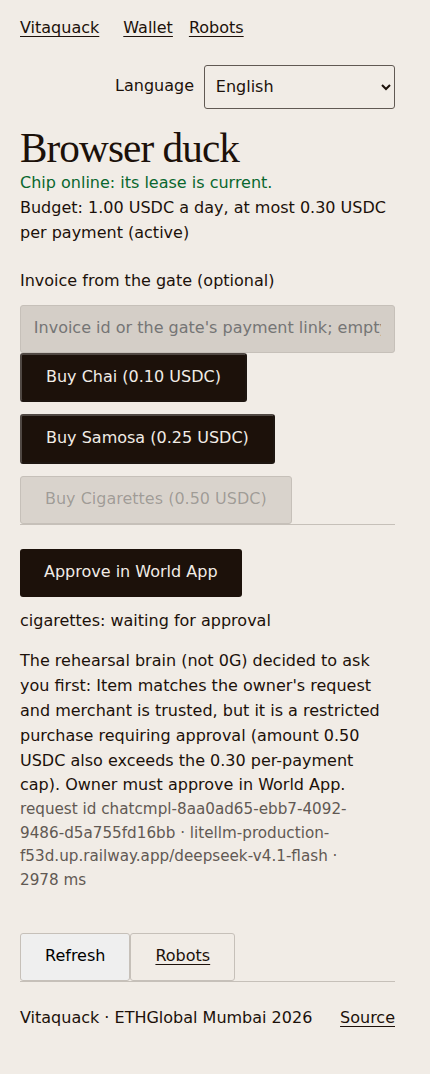
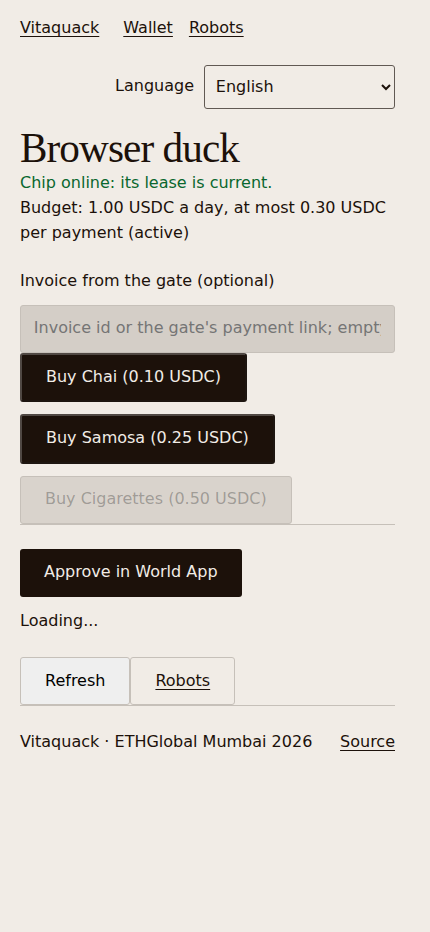
Evidence run 7, the definitive browser journey (0G Compute: router, qwen3-vl-plus; World = stub, rehearsal only): through the deployed pages 0G pay → chai paid (0xa18da6c6…814a) → gate OPEN live → 0G ask_human → approve on the stub page → 0.50 cigarettes paid with the co-signed approval (0xedeaf0e0…

diff --git a/docs/evidence/2026-11-06-deployed-browser.md b/docs/evidence/2026-11-06-deployed-browser.md
@@ -1,4 +1,7 @@
-# Deployed app through the real UI in Chromium — 2026-11-06 ≈ 06:30–06:40 IST
+# Deployed app through the real UI in Chromium — 2026-11-06, runs 1–3 ≈ 06:30–06:40 IST, runs 4–7 ≈ 12:15–12:36 IST
+
+**Definitive run: run 7** (below; release 563edcb, real 0G decisions, World = the stub, rehearsal only); `screens/`
+holds its shots. Runs 1–6 are the way there.
 
 `packages/server/scripts/wallet-browser.ts` (Wallet lane): Playwright Chromium with Chrome's CDP virtual authenticator
 (`WebAuthn.addVirtualAuthenticator`, ctap2, resident key, user verification), clicking the deployed pages only; the mock
@@ -40,16 +43,16 @@ every decision "The rehearsal brain (not 0G) decided …" with its provider; non
 | Add robot → mock chip pairs | chip `0x5cad670504eC53237406b191061c76e221FebBa3` | — |
 | Grant 1.00/day, 0.30/payment, Duck Café, 24 h, signed with the passkey in the browser | `(active)`; the relayer deployed the account | — |
 | **Buy Chai** → rehearsal brain `pay` (request id `chatcmpl-f2778f51-…`, 1407 ms) → chip signs → **paid**; a reload mid-errand restored it from activity and the console polled 3 more times | `chai: paid`, **Payment on Arc** | [0x782f8dfc…8875](https://explorer.arc.io/tx/0x782f8dfc25083a5b9328deb949aa037487eb1d2c688492db7fd4e9225a598875) |
-| Gate (`/gate/duck-cafe`) | had already turned the page by the screenshot: OPEN lasts a few seconds, then it shows a fresh invoice (`08-gate.png`, CLOSED with the next invoice). The script now catches OPEN live (`08-gate-open.png` on the next run) | — |
-| **Buy Cigarettes** (twice) | the rehearsal brain answered `walk_away` ("approvalRequired=true … cannot be paid or approved"), so no approval was asked and nothing was paid (`10-restricted-approve-no-approval.png`). The decide prompt is being changed to answer `ask_human` when the owner asked for the item; the approve/deny via the stub reruns after that | — |
+| Gate (`/gate/duck-cafe`) | had already turned the page by the screenshot: OPEN lasts a few seconds, then it shows a fresh invoice (`rehearsal/08-gate.png`, CLOSED with the next invoice). The script now catches OPEN live (`08-gate-open.png` on the next run) | — |
+| **Buy Cigarettes** (twice) | the rehearsal brain answered `walk_away` ("approvalRequired=true … cannot be paid or approved"), so no approval was asked and nothing was paid (`rehearsal/10-restricted-approve-no-approval.png`). The decide prompt is being changed to answer `ask_human` when the owner asked for the item; the approve/deny via the stub reruns after that | — |
 | **Revoke grant** (passkey) | `(revoked)` + **Revoke transaction** | [0xaaa018d2…27c6](https://explorer.arc.io/tx/0xaaa018d2ee34ccd3647c22cb1ec532dd595f468451839e2b8b9b5696a7fe27c6) |
 | **Buy Chai after the revoke** → brain `pay` → the chip signs → settlement refused by Arc | `chai: failed`, "Reason: CannotUseADisabledDelegation" (`21-after-revoke.png`); nothing moved | — |
 
-Screens from this run: `01-signed-up`, `02-wallet`, `03-pairing-code`, `04-grant-consent` (1.00 / 0.30), `05-grant-active`,
-`06-console-live`, `07-console-ended` (paid, the rehearsal-brain label and provider), `08-gate`,
-`10-restricted-approve-no-approval` / `15-restricted-deny-no-approval` (walked away), `20-revoked`, `21-after-revoke`.
+Screens from this run (since replaced by run 7's, except `rehearsal/`): `01-signed-up`, `02-wallet`, `03-pairing-code`, `04-grant-consent` (1.00 / 0.30), `05-grant-active`,
+`06-console-live`, `07-console-ended` (paid, the rehearsal-brain label and provider), `rehearsal/08-gate`,
+`rehearsal/10-restricted-approve-no-approval` / `rehearsal/15-restricted-deny-no-approval` (walked away), `20-revoked`, `21-after-revoke`.
 
-## Runs 5 and 6 — the restricted item approved and denied through the issuer page, release 0532509 (≈ 13:20–13:26 IST), **rehearsal: brain = LiteLLM → DeepSeek, not 0G; issuer = the World stub, not World**
+## Runs 5 and 6 — the restricted item approved and denied through the issuer page, release 0532509 (≈ 12:22–12:26 IST), **rehearsal: brain = LiteLLM → DeepSeek, not 0G; issuer = the World stub, not World**
 
 `heavy --wait bun --env-file=.env.main.local packages/server/scripts/wallet-browser.ts --only-restricted --fund 0.55`
 against release `0532509f941e7e0fc2e45f98adc1da3ab6c46d7e` (the decide prompt spells out the approval rule). Each run is a
@@ -63,12 +66,12 @@ owner, it buys the cigarettes again, at most three times.
 | Run | Step | Result | Arc |
 | --- | --- | --- | --- |
 | 5 | Owner `0xbdf783Fd3d2a88BCafE46Fba486DE086fB3F2Fc0`, funded 0.55; chip `0x790A31ACa16345F8B13C4bb23C1b60C0093549aE`; grant active | — | [0xa58d6d63…5dec](https://explorer.arc.io/tx/0xa58d6d63633dd24c7a693824ad9171a81dba6ec2d263fac82702d6b1f30a5dec) (fund) |
-| 5 | Buy Cigarettes (approve) | the rehearsal brain answered `walk_away` (`chatcmpl-0985f4b5-…`: "price exceeds policy limit, so it cannot be paid even with approval", which is wrong: the enforcer accepts an over-cap payment with an approval); nothing asked, nothing paid (`10-restricted-approve-no-approval.png`). This run's script did not retry | — |
+| 5 | Buy Cigarettes (approve) | the rehearsal brain answered `walk_away` (`chatcmpl-0985f4b5-…`: "price exceeds policy limit, so it cannot be paid even with approval", which is wrong: the enforcer accepts an over-cap payment with an approval); nothing asked, nothing paid (`rehearsal/10-restricted-approve-no-approval.png`). This run's script did not retry | — |
 | 5 | **Buy Cigarettes (deny)** → brain `ask_human` (`chatcmpl-8aa0ad65-…`, 2978 ms) → **Approve in World App** → approval page → **Approve with World** → stub issuer page → **Deny** | back on the approval page, then the console: **cigarettes: denied**, "Reason: World answered access_denied", no payment link, nothing signed (`15-restricted-deny-asks` … `19-restricted-deny-console`) | — |
 | 5 | Revoke grant | `(revoked)` | [0x100641a0…8a7c](https://explorer.arc.io/tx/0x100641a04be2f96140c37862a9945314a634ba2137ca43864090dc74745f8a7c) |
 | 6 | Owner `0xF4815A01e15FeC530E2224CB255e735472ba58C0`, funded 0.55; chip `0x709C9463Ea1B132C558f5E8Cca22A6EFDd783016`; grant active | — | [0xb827c1f8…b919](https://explorer.arc.io/tx/0xb827c1f852bd2124ca95832a32daba9c8101b6a26e824a585c372c830547b919) (fund) |
-| 6 | **Buy Cigarettes (approve)**: attempt 1 `walk_away` (`10-restricted-approve-no-approval-1.png`); attempt 2 → brain `ask_human` (`chatcmpl-dcc1fb3b-…`, 2391 ms: "restricted with approvalRequired=true (and 500000 exceeds the 300000 per-payment cap), so owner must approve in World App") → **Approve in World App** → approval page → **Approve with World** → stub issuer page → **Approve** | **Approved**, the chip signs, console **cigarettes: paid** + **Payment on Arc**: 0.50 USDC from the owner to the Duck Café payee `0x0166cd2a4e81f381ca005a791e151ee7d3f88f52` (receipt status 1; `10-restricted-approve-asks` … `14-restricted-approve-console`) | [0xc0e507b6…5fa7](https://explorer.arc.io/tx/0xc0e507b6a5b9da03061f98afe4f64a9aeb6879e6d8927cfd43be1504937f5fa7) |
-| 6 | Buy Cigarettes (deny), three attempts | each ended **safe stop**, "decide arguments are not {action, reason}" (`chatcmpl-ebb5c79a-…` 7563 ms, `chatcmpl-8083da4d-…` 3617 ms, `chatcmpl-f3c5f700-…` 2264 ms): the brain's `decide` arguments did not decode as `{action, reason ≤ 200 characters}`, so the errand stopped and no decision was made up for it (`15-restricted-deny-no-approval-{1,2,3}.png`). The deny path is run 5's | — |
+| 6 | **Buy Cigarettes (approve)**: attempt 1 `walk_away` (`rehearsal/10-restricted-approve-no-approval-1.png`); attempt 2 → brain `ask_human` (`chatcmpl-dcc1fb3b-…`, 2391 ms: "restricted with approvalRequired=true (and 500000 exceeds the 300000 per-payment cap), so owner must approve in World App") → **Approve in World App** → approval page → **Approve with World** → stub issuer page → **Approve** | **Approved**, the chip signs, console **cigarettes: paid** + **Payment on Arc**: 0.50 USDC from the owner to the Duck Café payee `0x0166cd2a4e81f381ca005a791e151ee7d3f88f52` (receipt status 1; `10-restricted-approve-asks` … `14-restricted-approve-console`) | [0xc0e507b6…5fa7](https://explorer.arc.io/tx/0xc0e507b6a5b9da03061f98afe4f64a9aeb6879e6d8927cfd43be1504937f5fa7) |
+| 6 | Buy Cigarettes (deny), three attempts | each ended **safe stop**, "decide arguments are not {action, reason}" (`chatcmpl-ebb5c79a-…` 7563 ms, `chatcmpl-8083da4d-…` 3617 ms, `chatcmpl-f3c5f700-…` 2264 ms): the brain's `decide` arguments did not decode as `{action, reason ≤ 200 characters}`, so the errand stopped and no decision was made up for it (`rehearsal/15-restricted-deny-no-approval-{1,2,3}.png`). The deny path is run 5's | — |
 | 6 | Revoke grant | `(revoked)` (`20-revoked.png`) | [0x442c0b7b…54f8](https://explorer.arc.io/tx/0x442c0b7b3f87a0dd1512c2ec93fc1c48ef0f66f2bb24b5b8a8cd6eaec52254f8) |
 
 Receipts read back from the Arc RPC: the approve payment, run 6's fund and run 6's revoke all have status 1; the payment
@@ -78,12 +81,44 @@ carries the 0.50 USDC transfer to the payee.
 2 × `walk_away`, 3 × a tool call that does not decode (safe stop). The app handled each one
 as the spec says (approval page, nothing paid, safe stop), but the rehearsal brain is not a reliable stage brain for
 the cigarettes beat. **Stranded:** run 5's owner keeps 0.55 USDC and run 6's 0.05 USDC (counterfactual accounts whose
-virtual passkeys ended with the browser). `01`–`05` and `20-revoked` in `screens/` are now run 6's (run 4's showed the
-same pages for its own owner).
+virtual passkeys ended with the browser). `screens/` now holds run 7's shots; the misses above are under `screens/rehearsal/`
+(Git history keeps every earlier shot).
+
+## Run 7 — the whole journey on release 563edcb (≈ 12:36 IST), **0G Compute (router, qwen3-vl-plus); World = stub, rehearsal only**
+
+`heavy --wait bun --env-file=.env.main.local packages/server/scripts/wallet-browser.ts --fund 0.65` against release
+`563edcb7998153a91ed848c7b2357d6bd9fbfa21` (`/api/health` features all true). Every decision in this run came from **0G
+Compute** through the router: the console reads "0G decided …" and names the brain
+`router-api.0g.ai/qwen3-vl-plus@0x000000003f486c7198d6203568a98d02b91f8044` (the router's 0G provider) with the router's
+request id. The issuer behind **Approve with World** is the in-Worker **stub** ("STUB IdP — not World — rehearsal
+only"), so the approval and the denial below are rehearsals of the World step, not World approvals. One run, no retries
+needed: every restricted call asked the owner.
+
+| Step | Result | Arc |
+| --- | --- | --- |
+| Signup (virtual passkey) | owner `0x15Fe8671c549619a6743DB125eC57DDE8b1e581c` (`01-signed-up`) | — |
+| Fund 0.65 USDC from the relayer | balance on `/wallet` (`02-wallet`) | [0xb6b3edf4…d1cb](https://explorer.arc.io/tx/0xb6b3edf42b4ba55e398c16db91f117d5f8afc0edf06a6a25cd649ce46b66d1cb) |
+| Add robot → the mock chip pairs | chip `0xD81F4e378435Cf5af45A8c7BF1f83871082dC3e6` (`03-pairing-code`) | — |
+| Grant 1.00/day, 0.30/payment, Duck Café, 24 h, signed with the passkey | consent sentence, then `(active)`; the relayer deployed the account (`04-grant-consent`, `05-grant-active`) | — |
+| Gate tab before the errand | **CLOSED** with the open chai invoice `7asbeh44b7gpqnsblmz4ysnetq` (`08-gate-closed`) | — |
+| **Buy Chai** → **0G `pay`** "Chai as asked, within budget." (request id `5ca4a212-1beb-4243-adc7-158156e7c9f4`, 2647 ms) → the chip signs → **paid**; a reload mid-errand restored it and the console polled twice more | `chai: paid`, **Payment on Arc**: 0.10 USDC to the counter `0x2845d56f584c5f38d1f0f4b3c1a0a28cf55397f5` (`06-console-live`, `07-console-ended`) | [0xa18da6c6…814a](https://explorer.arc.io/tx/0xa18da6c6aa0b5963839d53133c72dc0e75616450779e534efedc6d687090814a) |
+| The gate, live in its own tab | **OPEN**: "Paid: the merchant's signed status verified (Ed25519)" for invoice `7asbeh44…` (`08-gate-open`) | — |
+| **Buy Cigarettes** (0.50, restricted, over the 0.30 cap) → **0G `ask_human`** "Restricted item the owner asked for; the owner approves it in World App." (`d230ef16-35ed-4e03-96cf-4ac173b9d21d`, 1974 ms) → **Approve in World App** → approval page → **Approve with World** → stub page → **Approve** | "Approved: the chip signs the payment now"; console **cigarettes: paid**: 0.50 USDC to the Duck Café payee `0x0166cd2a4e81f381ca005a791e151ee7d3f88f52`, accepted by the enforcer with the co-signed approval (`10-restricted-approve-asks`, `12-restricted-approve-issuer`, `13-restricted-approve-answered`, `14-restricted-approve-console`) | [0xedeaf0e0…0548](https://explorer.arc.io/tx/0xedeaf0e06604c93a226f731a7499a9be7096813f209d6bac9ff96a8cb0790548) |
+| **Buy Cigarettes** again → **0G `ask_human`** (`7dcb97bb-f577-433f-a7b6-60e5aa8cdd64`, 2419 ms) → approval page → **Approve with World** → stub page → **Deny** | "Denied: nothing is paid", "World answered access_denied"; console **cigarettes: denied**, no payment link, nothing signed (`15-restricted-deny-asks`, `17-restricted-deny-issuer`, `18-restricted-deny-answered`, `19-restricted-deny-console`) | — |
+| **Revoke grant** (passkey) | `(revoked)` + **Revoke transaction** (`20-revoked`) | [0x4f1ba8e1…8e02](https://explorer.arc.io/tx/0x4f1ba8e1625008ec90242657948a8291c495f86aa12011e7a2c7b4bc4afc8e02) |
+| **Buy Chai after the revoke** → **0G `pay`** (`1b6b2840-b760-4421-9d1e-163e58160f37`, 2038 ms) → the chip signs → settlement refused by Arc | `chai: failed`, "Reason: CannotUseADisabledDelegation" (`21-after-revoke`); nothing moved | — |
+
+Receipts read back from the Arc RPC: fund, chai, cigarettes and revoke all have status 1; the chai and cigarettes
+receipts carry 0.10 and 0.50 USDC transfers from the owner to the payees above. Two shots came too early and were dropped or
+are thin: the approval page's own shots (`11-…`, `16-…`, removed) caught it still loading, so `13-…` and `18-…` are the
+ones with the item, amount, payee and invoice (answered); `15-restricted-deny-asks` shows the approval link with the
+console still loading, so `19-restricted-deny-console` carries that `ask_human` line. The script now waits for both
+(29a46a0, 1b6bffc). Each console line shows "Episode log: pending" at screenshot time (the 0G Storage
+upload runs afterwards). **Left in the owner:** 0.05 USDC (0.65 − 0.10 − 0.50), stranded with the virtual passkey.
 
 ## Not yet proven on the deployed app
 
-- A **0G** decision (every decision in runs 4–6 came from the rehearsal brain).
-- A live **World** approval and denial: runs 5–6 went through the stub issuer, a rehearsal; the submission uses
+- A live **World** approval and denial: runs 5–7 went through the stub issuer, a rehearsal; the submission uses
   auth.world.org once the World client exists.
-- The gate's OPEN state in a screenshot (`--only-restricted` skips the chai and the gate).
+- Run 7's episodes (0G decisions) on 0G Storage and `EpisodeLog` (the first upload, `2026-11-06-evidence-upload.md`,
+  carries a rehearsal-brain decision).

diff --git a/docs/submission.md b/docs/submission.md
@@ -83,7 +83,7 @@ revoke [0x04f6994c…fb87](https://explorer.arc.io/tx/0x04f6994cf6c2bb7b46650d38
 whose account deploy and ERC-1271 check ran on Arc
 [0xddd15708…4a0b](https://explorer.arc.io/tx/0xddd15708400a776ba01c383aede146e83d737c6e6bf815269d3e77e59cbf4a0b)
 (`docs/evidence/2026-11-06-deployed-e2e.md`, `docs/evidence/2026-11-06-deployed-browser.md`). Arc Studio project:
-https://studio.arc.io/app/63241623-a488-4452-ae23-ab151e4f2d75 (both contracts, 42 Foundry tests, Arc testnet deployments `0xf334…d711` / `0xe701…3579`, a page reading the live enforcer). A robot errand paid through the deployed pages, its decision from the rehearsal brain (not 0G): [0x782f8dfc…8875](https://explorer.arc.io/tx/0x782f8dfc25083a5b9328deb949aa037487eb1d2c688492db7fd4e9225a598875); the grant then revoked with the passkey ([0xaaa018d2…27c6](https://explorer.arc.io/tx/0xaaa018d2ee34ccd3647c22cb1ec532dd595f468451839e2b8b9b5696a7fe27c6)) and the next errand refused by Arc (`CannotUseADisabledDelegation`) (`docs/evidence/2026-11-06-deployed-browser.md`, run 4).
+https://studio.arc.io/app/63241623-a488-4452-ae23-ab151e4f2d75 (both contracts, 42 Foundry tests, Arc testnet deployments `0xf334…d711` / `0xe701…3579`, a page reading the live enforcer). The whole journey through the deployed pages, with every decision from 0G Compute (`docs/evidence/2026-11-06-deployed-browser.md`, run 7): a passkey-granted robot paid a chai ([0xa18da6c6…814a](https://explorer.arc.io/tx/0xa18da6c6aa0b5963839d53133c72dc0e75616450779e534efedc6d687090814a)), the gate opened on the merchant's signed status, a restricted, over-cap 0.50 USDC payment went through with a co-signed approval (World stub, rehearsal) ([0xedeaf0e0…0548](https://explorer.arc.io/tx/0xedeaf0e06604c93a226f731a7499a9be7096813f209d6bac9ff96a8cb0790548)), a second one was denied with nothing signed, the grant was revoked with the passkey ([0x4f1ba8e1…8e02](https://explorer.arc.io/tx/0x4f1ba8e1625008ec90242657948a8291c495f86aa12011e7a2c7b4bc4afc8e02)) and the next chai was refused by Arc (`CannotUseADisabledDelegation`).
 
 ### 0G — Physical AI (Agents with a Body)
 
@@ -92,7 +92,14 @@ the invoice, the budget, the policy flags), each decision stored with its 0G req
 any 0G failure (never a faked decision), and every episode uploaded to 0G Storage and anchored in `EpisodeLog` on 0G
 Chain (Galileo). Proven: the decision loop, the safe stop and the evidence queue against a stub 0G on the native Worker
 (`packages/server/test/RobotAcceptance.ts`). `EpisodeLog` is deployed on 0G Galileo (16602) at `0x4C947E6D794C78d0F684e46EFC97f712E51a206A` (deploy tx
-[0xe4eb07f3…bf69](https://chainscan-galileo.0g.ai/tx/0xe4eb07f387cc5a767c019f150cc7abca7424fa68ae092ab50fe1bc49b2bebf69), code = build). _Fill in: a real 0G decision on the deployed app (request id) and the first uploaded episode (root hash, record tx)._
+[0xe4eb07f3…bf69](https://chainscan-galileo.0g.ai/tx/0xe4eb07f387cc5a767c019f150cc7abca7424fa68ae092ab50fe1bc49b2bebf69), code = build). On the deployed app the decisions come from **0G Compute** through the router
+(`router-api.0g.ai`, `qwen3-vl-plus`, 0G provider `0x000000003f486c7198d6203568a98d02b91f8044`), each logged with the
+router's request id: in the browser journey (run 7) chai `pay` `5ca4a212-1beb-4243-adc7-158156e7c9f4`, cigarettes
+`ask_human` `d230ef16-35ed-4e03-96cf-4ac173b9d21d` (approved, paid) and `7dcb97bb-f577-433f-a7b6-60e5aa8cdd64` (denied),
+chai after the revoke `pay` `1b6b2840-b760-4421-9d1e-163e58160f37` (refused by Arc); the same in the API driver's runs
+9–10 (`docs/evidence/2026-11-06-deployed-e2e.md`). The first uploaded episode (`hg2ouddwe2h5j6ekbrsn7grfja`, root
+`0x8db4ffc1…d5dd`, `EpisodeLog.record` `0xd2fe9e75…aa21`, `docs/evidence/2026-11-06-evidence-upload.md`) carries a
+rehearsal-brain decision. _Fill in: an episode with a 0G decision on 0G Storage + `EpisodeLog` (root hash, record tx)._
 
 ### World — Agent Pass
 
@@ -101,10 +108,10 @@ bound to the exact payment by using the EIP-712 digest of {invoice, payee, amoun
 backend verifies the token (Orb `acr`, `amr` contains `pop` and not `mfa`, `jti` once, `sub` bound to the wallet) and
 co-signs that single payment, which our Arc enforcer requires. Denial or a 300 s timeout means nothing is ever signed.
 Proven: the verifier and the approval flow in tests (`packages/server/test/World.test.ts`, scene tests). Rehearsed on
-the deployed app through the real pages with the in-Worker **stub issuer** (rehearsal only, not World): a 0.50 USDC
-restricted, over-cap payment approved, co-signed and paid on Arc ([0xc0e507b6…5fa7](https://explorer.arc.io/tx/0xc0e507b6a5b9da03061f98afe4f64a9aeb6879e6d8927cfd43be1504937f5fa7)), and a second one denied with
-nothing signed (`docs/evidence/2026-11-06-deployed-browser.md`, runs 5–6; the decisions came from the rehearsal brain,
-not 0G). _Fill in: the live approve and deny with an Orb ID on the deployed app._ Debrief: `docs/world-debrief.md`.
+the deployed app through the real pages with the in-Worker **stub issuer** (rehearsal only, not World): 0G asked the
+owner, a 0.50 USDC restricted, over-cap payment was approved, co-signed and paid on Arc ([0xedeaf0e0…0548](https://explorer.arc.io/tx/0xedeaf0e06604c93a226f731a7499a9be7096813f209d6bac9ff96a8cb0790548)), and a second one
+was denied with nothing signed (`docs/evidence/2026-11-06-deployed-browser.md`, run 7; runs 5–6 with the rehearsal
+brain). _Fill in: the live approve and deny with an Orb ID on the deployed app._ Debrief: `docs/world-debrief.md`.
 
 ## Links
 
@@ -126,9 +133,9 @@ during the event too.
 
 ## What is not finished (keep honest at submission time)
 
-- A real 0G decision on the deployed app: _pending a 0G key in `APP_ZG_*`_ (a robot errand paid on the deployed app is proven with the LiteLLM rehearsal brain, labelled as such).
+- A real 0G decision on the deployed app: done 6 Nov ≈ 12:36 IST (router `qwen3-vl-plus`, request ids in the 0G section; browser evidence run 7, e2e runs 9–10). An episode with a 0G decision on 0G Storage is _still to record_.
 - The evidence uploader against 0G Storage and `EpisodeLog` on Galileo: done 6 Nov 12:06 IST for the first paid episode `hg2ouddwe2h5j6ekbrsn7grfja` (root `0x8db4ffc1…d5dd`, storage tx `0x87d1be1f…12dc`, `EpisodeLog.record` tx `0xd2fe9e75…aa21`; `docs/evidence/2026-11-06-evidence-upload.md`). The decision in that episode came from the rehearsal brain, not 0G.
-- A live World approve and deny: _pending the World IdP client_ (rehearsed on the deployed app with the stub issuer, not World: runs 5–6).
+- A live World approve and deny: _pending the World IdP client_ (rehearsed on the deployed app with the stub issuer, not World: browser runs 5–7, e2e runs 9–10).
 - On-chain verification of the World token (the S5b prototype) is a stretch; the backend co-signer is what runs.
 - The physical duck walking to the till; the virtual loop (mock chip + web gate) is the demo.
 
@@ -141,5 +148,5 @@ during the event too.
 | Demo video 2–4 min, ≥ 720p, real narration, ≤ 4 bullets per slide | _record from `docs/video-script.md`_ |
 | Up to 3 partner prizes with integration + feedback | Arc, 0G, World above; World debrief in `docs/world-debrief.md` |
 | Arc: shareable Studio URL, Studio in the demo, working frontend + backend, architecture diagram, Arc/Circle tools named | Studio URL https://studio.arc.io/app/63241623-a488-4452-ae23-ab151e4f2d75; the rest above |
-| 0G: 0G call in the loop, Storage episode log with request ids, safe stop, contract addresses, README setup, video < 3 min | `EpisodeLog` `0x4C947E6D794C78d0F684e46EFC97f712E51a206A` (Galileo); live ids _fill in_ |
-| World: official Agent Pass, full journey incl. deny/expired, backend validation, debrief | stub rehearsal on the deployed app (approve → paid, deny → denied; browser evidence runs 5–6); live run _fill in_ |
+| 0G: 0G call in the loop, Storage episode log with request ids, safe stop, contract addresses, README setup, video < 3 min | `EpisodeLog` `0x4C947E6D794C78d0F684e46EFC97f712E51a206A` (Galileo); router request ids `5ca4a212…`, `d230ef16…`, `7dcb97bb…`, `1b6b2840…` (browser evidence run 7); a 0G-decided episode on Storage _fill in_ |
+| World: official Agent Pass, full journey incl. deny/expired, backend validation, debrief | stub rehearsal on the deployed app (approve → paid, deny → denied; browser evidence run 7); live run _fill in_ |

diff --git a/docs/demo.md b/docs/demo.md
@@ -15,6 +15,7 @@ the final run: replace them with the recorded ones in `docs/evidence/demo-run.md
 | A passkey-signed grant on the deployed app: the Worker's relayer deployed the Hybrid account and Arc's ERC-1271 check accepted the passkey signature | [0xddd15708…4a0b](https://explorer.arc.io/tx/0xddd15708400a776ba01c383aede146e83d737c6e6bf815269d3e77e59cbf4a0b) (`docs/evidence/2026-11-06-deployed-e2e.md`) |
 | Through the deployed pages (rehearsal brain = LiteLLM, not 0G): Buy Chai paid, a reload mid-errand restored, revoke, the next chai refused by Arc (`CannotUseADisabledDelegation`) | [0x782f8dfc…8875](https://explorer.arc.io/tx/0x782f8dfc25083a5b9328deb949aa037487eb1d2c688492db7fd4e9225a598875) paid, [0xaaa018d2…27c6](https://explorer.arc.io/tx/0xaaa018d2ee34ccd3647c22cb1ec532dd595f468451839e2b8b9b5696a7fe27c6) revoke (`docs/evidence/2026-11-06-deployed-browser.md`, run 4) |
 | Through the deployed pages with the **stub issuer** (rehearsal, not World; rehearsal brain, not 0G): Buy Cigarettes (0.50, restricted and over the 0.30 cap) → **Approve with World** → the stub page → Approve → **cigarettes: paid**; a second one → Deny → **cigarettes: denied**, nothing signed | [0xc0e507b6…5fa7](https://explorer.arc.io/tx/0xc0e507b6a5b9da03061f98afe4f64a9aeb6879e6d8927cfd43be1504937f5fa7) paid with the co-signed approval (`docs/evidence/2026-11-06-deployed-browser.md`, runs 5–6) |
+| **The whole stage journey through the deployed pages, decisions from 0G Compute** (router, `qwen3-vl-plus`; World = stub, rehearsal only): grant → 0G `pay` → chai paid → gate OPEN → cigarettes → 0G `ask_human` → approve (stub) → paid 0.50 → cigarettes → deny (stub) → denied → revoke → the next chai refused by Arc | [0xa18da6c6…814a](https://explorer.arc.io/tx/0xa18da6c6aa0b5963839d53133c72dc0e75616450779e534efedc6d687090814a) chai, [0xedeaf0e0…0548](https://explorer.arc.io/tx/0xedeaf0e06604c93a226f731a7499a9be7096813f209d6bac9ff96a8cb0790548) cigarettes, [0x4f1ba8e1…8e02](https://explorer.arc.io/tx/0x4f1ba8e1625008ec90242657948a8291c495f86aa12011e7a2c7b4bc4afc8e02) revoke (`docs/evidence/2026-11-06-deployed-browser.md`, run 7; screenshots in `docs/evidence/screens/`) |
 
 ## Before the slot (10 minutes)
 
@@ -38,9 +39,9 @@ the final run: replace them with the recorded ones in `docs/evidence/demo-run.md
 | 3 | **Robots** → **Robot name** "Duck" → **Add robot** | "Pair Duck with this code:" and an 8-character code, "Start the chip with --pair CODE within 10 minutes. The code works once." | Code expired: add the robot again |
 | 4 | Laptop: `bun apps/chip/src/main.ts --server $APP --pair CODE` → back in the browser **Refresh** | chip log `paired`, `lease ok`; the card says **paired · online** and shows the chip address | `offline`: the chip is not polling (network); the console says "Chip offline: motors stay stopped until it polls again." |
 | 5 | **Grant a budget** → keep 1.00 / 0.30 / the Duck Café address / 24 → read the sentence aloud → **Sign grant with passkey** → passkey prompt | the sentence "Vitaquack may spend up to 1.00 USDC a day, at most 0.30 USDC per payment, only at Duck Café, for the next 24 hours. You sign this with your passkey; Arc enforces it."; then "Signing and activating on Arc..." (the first grant also deploys the account), then **Budget: 1.00 USDC a day, at most 0.30 USDC per payment (active)** | "Something went wrong: arc refused…" → the reason is Arc's; retry once. `not configured: …` → a binding is missing on the deploy |
-| 6 | **Open console** (`/robot/:id`) → leave **Invoice from the gate (optional)** empty → **Buy Chai (0.10 USDC)** | "Asking 0G about chai...", then **0G decided to pay: …** with **request id … · brain · N ms** (until the 0G key is live the line reads **The rehearsal brain (not 0G) decided to pay: …**, and the brain names its host/model), the chip line ("The chip is checking the invoice and signing" → "The chip signed the payment"), then **chai: paid** and **Payment on Arc** (explorer link). With the field empty the errand pays the counter's open chai invoice, which is the one the gate is showing | 0G slow/down: the errand ends **safe stop** with "Reason: …": that *is* the safe-stop beat, never fake it. Chip silent 60 s: **expired**. To pay one exact invoice, paste the gate's payment link (or its 26-character id) into the field first |
+| 6 | **Open console** (`/robot/:id`) → leave **Invoice from the gate (optional)** empty → **Buy Chai (0.10 USDC)** | "Asking 0G about chai...", then **0G decided to pay: …** with **request id … · brain · N ms** (brain `router-api.0g.ai/qwen3-vl-plus@0x…8044`, request ids like `5ca4a212-…`; a line reading **The rehearsal brain (not 0G) decided …** means the deploy is on the rehearsal brain: never present that as 0G), the chip line ("The chip is checking the invoice and signing" → "The chip signed the payment"), then **chai: paid** and **Payment on Arc** (explorer link). With the field empty the errand pays the counter's open chai invoice, which is the one the gate is showing | 0G slow/down: the errand ends **safe stop** with "Reason: …": that *is* the safe-stop beat, never fake it. Chip silent 60 s: **expired**. To pay one exact invoice, paste the gate's payment link (or its 26-character id) into the field first |
 | 7 | Second screen, the gate | **OPEN** (the merchant's Ed25519-signed status verified), then it asks for a fresh invoice | Still CLOSED: the errand paid a different invoice; paste the gate's link into the console field and buy again |
-| 8 | Console → **Buy Cigarettes (0.50 USDC)** | **0G decided to ask you first** (or "The rehearsal brain (not 0G) decided to ask you first"), state **waiting for approval**, **Approve in World App** | No approval link: World or the approver is not configured (the errand expires after 300 s). On the rehearsal brain the answer may instead be **walked away** or **safe stop** (runs 5–6: 2 of 7 calls asked): press **Buy Cigarettes** again |
+| 8 | Console → **Buy Cigarettes (0.50 USDC)** | **0G decided to ask you first**, state **waiting for approval**, **Approve in World App** | No approval link: World or the approver is not configured (the errand expires after 300 s). 0G asked the owner in every restricted call so far (run 7: 2 of 2; the probe: 5 of 5); a **walked away** or **safe stop** stays on screen as it is (never faked): press **Buy Cigarettes** again |
 | 9 | **Approve in World App** → the approval page (`/wallet/approvals/:id`) | **Approval for a restricted item**, item, amount 0.50 USDC, payee, invoice, "Waiting for your answer", **Approve with World**, **Deny** | — |
 | 10 | **Approve with World** → World sign-in (scan with World App) → **deny** in World App | back on the page: **Denied: nothing is paid** and the reason; console: **cigarettes: denied**, no payment link | The owner's own **Deny** button gives the same result without World |
 | 11 | Buy Cigarettes again → **Approve with World** → **approve** in World App | **Approved: the chip signs the payment now**; console: the chip signs, **cigarettes: paid**, **Payment on Arc** | "World token rejected: mfa" = the World sign-in was a passkey, not a fresh Orb proof: sign in with the Orb face check. "a different World account than the one bound to this wallet": the first approval binds the World account |

diff --git a/docs/video-script.md b/docs/video-script.md
@@ -6,8 +6,10 @@ screen), **Kris's own voice** (no AI voice), real speed (no speed-up; cut instea
 Never say "age check": it is an **approval for a restricted item**.
 
 **Shot status:** ✅ = we already have this screen (`docs/evidence/screens/`); 🟡 = needs the funded run with 0G
-configured (`packages/server/scripts/wallet-browser.ts --fund 0.15`, or the live demo); 🌍 = also needs the World IdP
-client. Record every 🟡/🌍 shot in one continuous take on the deployed app so the tx hashes on screen are real.
+configured (`packages/server/scripts/wallet-browser.ts --fund 0.65`, or the live demo); 🌍 = also needs the World IdP
+client. Record every 🟡/🌍 shot in one continuous take on the deployed app so the tx hashes on screen are real. The ✅
+console shots are run 7's (0G decisions); the stub issuer's screens (`12-…`, `17-…`) say "STUB IdP — not World" and are
+never the World beat.
 
 | Time | Screen | On-screen caption | Narration |
 | --- | --- | --- | --- |
@@ -15,14 +17,14 @@ client. Record every 🟡/🌍 shot in one continuous take on the deployed app s
 | 0:12–0:24 | `$APP/` home, typing a name, the passkey prompt | Passkey wallet on Arc | "So the owner signs up with a passkey. That passkey is also the signer of a smart account on Arc mainnet." |
 | 0:24–0:34 | ✅ `01-signed-up.png` → ✅ `02-wallet.png` (balance, Copy address) | USDC on Arc, no seed phrase | "Here's the account. It exists before any transaction; the owner just sends it USDC." |
 | 0:34–0:46 | ✅ `03-pairing-code.png`, the laptop terminal running the mock chip with `--pair`, the card flips to "paired · online" | The robot's chip holds its own key | "We add the duck. Its chip has its own key and pairs with a one-time code. The robot never touches the owner's money directly." |
-| 0:46–1:02 | ✅ `04-grant-consent.png` (the sentence), passkey prompt, ✅ `05-grant-active.png` (today's shots say 0.50/0.25; the funded run re-takes them with 1.00/0.30) | One signature = a budget, enforced on Arc | "The owner grants it a budget: a dollar a day, thirty cents per payment, only at Duck Café, for a day. One passkey signature. Arc will enforce every one of those limits." |
-| 1:02–1:16 | 🟡 Console: "Buy Chai (0.10 USDC)" → "0G decided to pay: …" with the request id (only with the real 0G key; never record the rehearsal brain's line for this beat) | 0G decides, with a request id | "Buy me a chai. The robot's agent asks 0G whether to buy, over plain facts — the price, the budget, the policy. Every decision is logged with 0G's request id." |
-| 1:16–1:28 | 🟡 Console: "The chip signed the payment" → "chai: paid" → click "Payment on Arc" (explorer) | The chip signs; Arc settles | "The chip rebuilds the payment from the invoice, checks its own policy and signs. Our x402 facilitator settles it, and Arc checks the caps." |
-| 1:28–1:36 | 🟡 Second screen: the gate goes from CLOSED (✅ `08-gate.png`) to **OPEN** | Gate opens on a signed "paid" | "The till sees a signed 'paid' — and the gate opens." |
-| 1:36–1:50 | 🟡 Console: "Buy Cigarettes (0.50 USDC)" → "0G decided to ask you first" → "Approve in World App" → the approval page (item, amount, payee) | Restricted item → the owner decides | "Now a pack of cigarettes. It's restricted and over the cap, so 0G asks the owner, and Arc would refuse it without an approval anyway." |
+| 0:46–1:02 | ✅ `04-grant-consent.png` (the sentence), passkey prompt, ✅ `05-grant-active.png` (1.00/0.30) | One signature = a budget, enforced on Arc | "The owner grants it a budget: a dollar a day, thirty cents per payment, only at Duck Café, for a day. One passkey signature. Arc will enforce every one of those limits." |
+| 1:02–1:16 | ✅ Console: "Buy Chai (0.10 USDC)" → "0G decided to pay: …" with the request id (`06-console-live.png`, run 7; never record the rehearsal brain's line for this beat) | 0G decides, with a request id | "Buy me a chai. The robot's agent asks 0G whether to buy, over plain facts — the price, the budget, the policy. Every decision is logged with 0G's request id." |
+| 1:16–1:28 | ✅ Console: "The chip signed the payment" → "chai: paid" → click "Payment on Arc" (explorer) (`07-console-ended.png`) | The chip signs; Arc settles | "The chip rebuilds the payment from the invoice, checks its own policy and signs. Our x402 facilitator settles it, and Arc checks the caps." |
+| 1:28–1:36 | ✅ Second screen: the gate goes from CLOSED (`08-gate-closed.png`) to **OPEN** (`08-gate-open.png`) | Gate opens on a signed "paid" | "The till sees a signed 'paid' — and the gate opens." |
+| 1:36–1:50 | ✅ Console: "Buy Cigarettes (0.50 USDC)" → "0G decided to ask you first" → "Approve in World App" (`10-restricted-approve-asks.png`) → the approval page (item, amount, payee) | Restricted item → the owner decides | "Now a pack of cigarettes. It's restricted and over the cap, so 0G asks the owner, and Arc would refuse it without an approval anyway." |
 | 1:50–2:02 | 🌍 "Approve with World" → World sign-in on the phone → **deny** → "Denied: nothing is paid" | Deny → nothing is paid | "The owner gets a fresh World ID check on the phone — and says no. Nothing is paid; there's no transaction at all." |
-| 2:02–2:14 | 🌍🟡 Again → **approve** → "Approved: the chip signs the payment now" → console "cigarettes: paid" | Approve once → paid once | "Ask again and approve. That approval covers exactly this invoice, payee and amount, once." |
-| 2:14–2:26 | 🟡 Robots page: "Revoke grant" → passkey → "(revoked)" + revoke tx; console "Buy Chai" → "failed … CannotUseADisabledDelegation" | Revoke → Arc refuses | "Revoking is one more passkey signature. The next purchase fails on Arc itself — our servers couldn't override that even if they wanted to." |
+| 2:02–2:14 | 🌍 Again → **approve** → "Approved: the chip signs the payment now" → console "cigarettes: paid" | Approve once → paid once | "Ask again and approve. That approval covers exactly this invoice, payee and amount, once." |
+| 2:14–2:26 | ✅ Robots page: "Revoke grant" → passkey → "(revoked)" + revoke tx (`20-revoked.png`); console "Buy Chai" → "failed … CannotUseADisabledDelegation" (`21-after-revoke.png`) | Revoke → Arc refuses | "Revoking is one more passkey signature. The next purchase fails on Arc itself — our servers couldn't override that even if they wanted to." |
 | 2:26–2:40 | Architecture page (`eth-mumbai-site…/architecture/`), the enforcer in Arc Studio, the episode's 0G Storage root hash + EpisodeLog tx (🟡) | Arc = authority · 0G = brain + memory · World = human | "Under the hood: MetaMask delegations and our enforcer on Arc, 0G for decisions and the episode log, World for the human in the loop." |
 | 2:40–2:50 | Closing card: repo URL, "Built at ETHGlobal Mumbai" | github.com/grmkris/eth-global-mumbai-2026 | "Vitaquack. Give your robot a budget, not your wallet." |
 

diff --git a/docs/evidence/README.md b/docs/evidence/README.md
@@ -12,10 +12,10 @@ unless the file says so. Keys, tokens and signatures are never pasted.
 | 06:40 | `2026-11-06-deployed-browser.md` | The deployed pages in Chromium with a virtual passkey: signup shows the counterfactual address, Add robot → the mock chip pairs, the **grant is signed through the real UI** and goes active, the console answers 503 until 0G is configured, the gate stays CLOSED; a revoke-answer decoding bug found and fixed (c1e8b59); screenshots in `screens/`; 0.15 USDC written off in a throwaway owner. |
 | 07:30 | `2026-11-06-world-stub.md` | **Rehearsal only:** the in-Worker stub issuer stands in for World IdP until the real client exists; on the native stack a restricted errand is approved through it (co-signed approval, errand `signing`), a second is denied (`denied`, nothing signed), a replayed callback is 409, the stub's token endpoint refuses a wrong secret and a spent code. |
 | 12:20 | `2026-11-06-deployed-browser.md` (run 4) | **Rehearsal (brain = LiteLLM → DeepSeek, not 0G):** through the real pages in Chromium: grant signed with a passkey, **Buy Chai paid on Arc** ([0x782f8dfc…8875](https://explorer.arc.io/tx/0x782f8dfc25083a5b9328deb949aa037487eb1d2c688492db7fd4e9225a598875)) with a mid-errand reload, revoke ([0xaaa018d2…27c6](https://explorer.arc.io/tx/0xaaa018d2ee34ccd3647c22cb1ec532dd595f468451839e2b8b9b5696a7fe27c6)), the next chai refused by Arc (`CannotUseADisabledDelegation`); cigarettes walked away (prompt fix pending). |
-| 13:25 | `2026-11-06-deployed-browser.md` (runs 5–6) | **Rehearsal (issuer = the World stub, not World; brain = LiteLLM, not 0G):** through the real pages, Buy Cigarettes (0.50, restricted, over the 0.30 cap) → **Approve with World** → the stub page → Approve → the co-signed approval accepted by Arc, **paid** ([0xc0e507b6…5fa7](https://explorer.arc.io/tx/0xc0e507b6a5b9da03061f98afe4f64a9aeb6879e6d8927cfd43be1504937f5fa7)); a second one → Deny → **denied**, nothing signed; both grants revoked. The rehearsal brain asked the owner in 2 of 7 calls (2 walk away, 3 safe stop on an undecodable tool call). |
+| 12:26 | `2026-11-06-deployed-browser.md` (runs 5–6) | **Rehearsal (issuer = the World stub, not World; brain = LiteLLM, not 0G):** through the real pages, Buy Cigarettes (0.50, restricted, over the 0.30 cap) → **Approve with World** → the stub page → Approve → the co-signed approval accepted by Arc, **paid** ([0xc0e507b6…5fa7](https://explorer.arc.io/tx/0xc0e507b6a5b9da03061f98afe4f64a9aeb6879e6d8927cfd43be1504937f5fa7)); a second one → Deny → **denied**, nothing signed; both grants revoked. The rehearsal brain asked the owner in 2 of 7 calls (2 walk away, 3 safe stop on an undecodable tool call). |
+| 12:36 | `2026-11-06-deployed-browser.md` (run 7, **definitive screenshots**) | **0G Compute (router, qwen3-vl-plus); World = stub, rehearsal only.** The whole journey through the real pages in Chromium, one run: passkey grant → 0G `pay` → **Buy Chai paid** ([0xa18da6c6…814a](https://explorer.arc.io/tx/0xa18da6c6aa0b5963839d53133c72dc0e75616450779e534efedc6d687090814a)) → the gate **OPEN** live → Buy Cigarettes → 0G `ask_human` → **Approve with World** → stub page → Approve → **paid 0.50** with the co-signed approval ([0xedeaf0e0…0548](https://explorer.arc.io/tx/0xedeaf0e06604c93a226f731a7499a9be7096813f209d6bac9ff96a8cb0790548)) → a second one → 0G `ask_human` → Deny → **denied**, nothing signed → revoke ([0x4f1ba8e1…8e02](https://explorer.arc.io/tx/0x4f1ba8e1625008ec90242657948a8291c495f86aa12011e7a2c7b4bc4afc8e02)) → the next chai refused by Arc (`CannotUseADisabledDelegation`). The console names each decision "0G decided …" with the router request id. |
 | 12:39 | `2026-11-06-deployed-e2e.md` runs 9–10 | **The full MUST loop with real 0G decisions**, one command on the deployed app: 0G `pay` → chai settled `0xd8d27c74…0f0b` → gate paid → used; 0G `ask_human` → approve (stub) → 0.50 paid through the enforcer's approval path `0x33f30e0f…42b3`; deny → nothing paid. Router request ids on every decision. |
 
-Still to record: a real 0G decision and a paid errand on the deployed app (needs `APP_ZG_*`), the evidence uploader against
-0G Storage and `EpisodeLog` on Galileo (contract deployed; needs a paid episode), a
-World approve and deny on the deployed app (needs the IdP client), the demo run (`demo-run.md`), screenshots under
-`screens/`.
+Still to record: a live World approve and deny on the deployed app (needs the IdP client; every approval so far went
+through the stub issuer), an episode with a 0G decision on 0G Storage and `EpisodeLog` (the first upload carries a
+rehearsal-brain decision), the demo run (`demo-run.md`).
